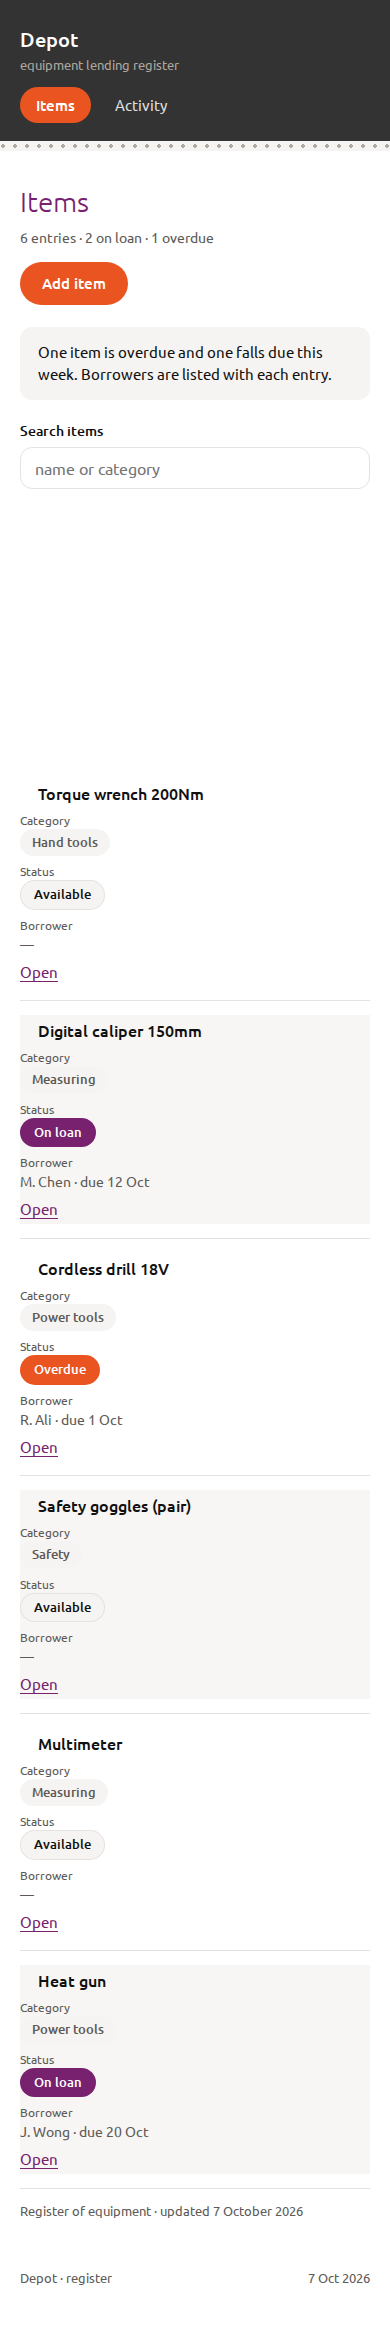
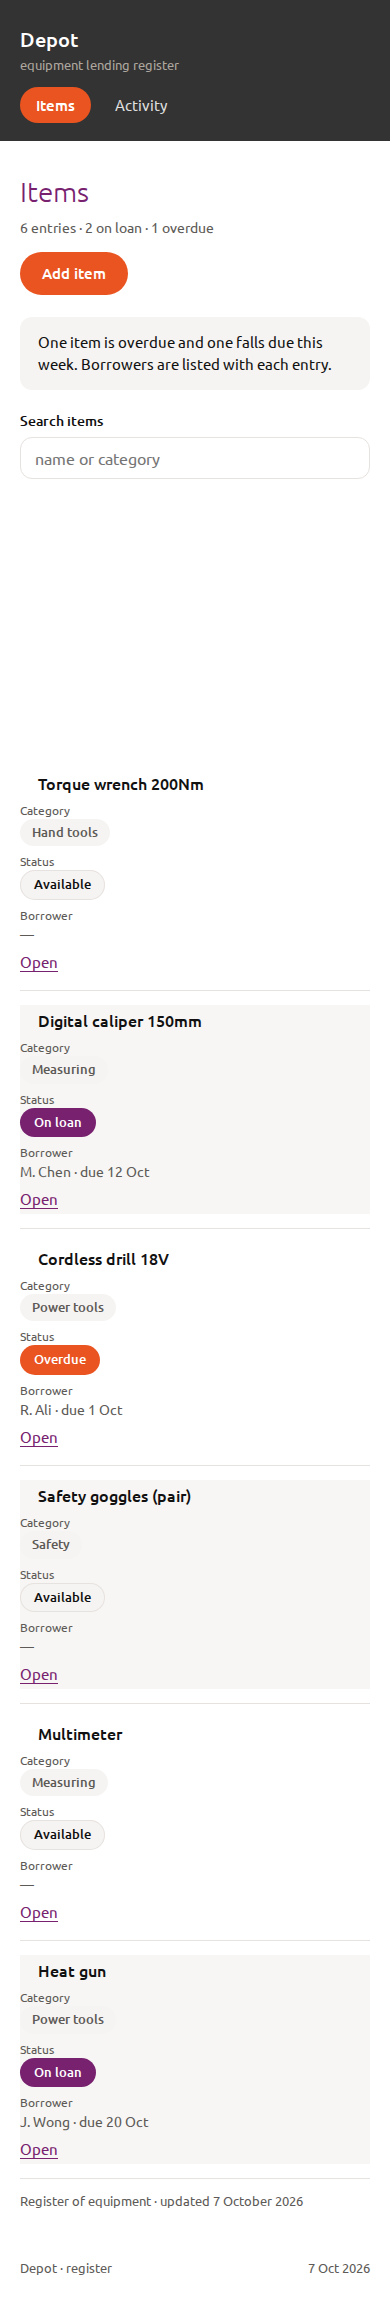
SPRINT v3: remove dot stripe under masthead (not Ubuntu's pattern; dot motif stays in library only) — re-rendered

diff --git a/docs/portability/mock-v3/indaba-mock.html b/docs/portability/mock-v3/indaba-mock.html
@@ -24,7 +24,6 @@
       </div>
     </div>
   </header>
-  <div class="dotstrip"></div>
   <div class="wrap">
 
     <div class="page-head">
@@ -115,7 +114,6 @@
       </div>
     </div>
   </header>
-  <div class="dotstrip"></div>
   <div class="wrap">
 
     <div class="page-head">
@@ -189,7 +187,6 @@
       </div>
     </div>
   </header>
-  <div class="dotstrip"></div>
   <div class="wrap">
 
     <div class="page-head">
@@ -241,7 +238,6 @@
       </div>
     </div>
   </header>
-  <div class="dotstrip"></div>
   <div class="wrap">
 
     <div class="page-head">
@@ -298,7 +294,6 @@
       </div>
     </div>
   </header>
-  <div class="dotstrip"></div>
   <div class="wrap">
 
     <div class="page-head">

diff --git a/docs/portability/mock-v3/indaba-mock.css b/docs/portability/mock-v3/indaba-mock.css
@@ -49,13 +49,8 @@ body {
 }
 .masthead nav a:hover { background: rgba(255, 255, 255, .10); color: #fff; }
 .masthead nav a.on { background: var(--orange); color: #fff; font-weight: 500; }
-.dotstrip {
-  height: 10px;
-  background-color: var(--warm-tint);
-  background-image: radial-gradient(var(--warm-grey) 1.6px, transparent 1.8px);
-  background-size: 12px 12px;
-  background-position: 50% 50%;
-}
+/* (dot pattern remains available as a brand graphic device for backgrounds;
+   not used as a stripe under the banner) */
 
 /* page head */
 .page-head { display: flex; justify-content: space-between; align-items: flex-start; gap: 24px; margin: 30px 0 22px; }
